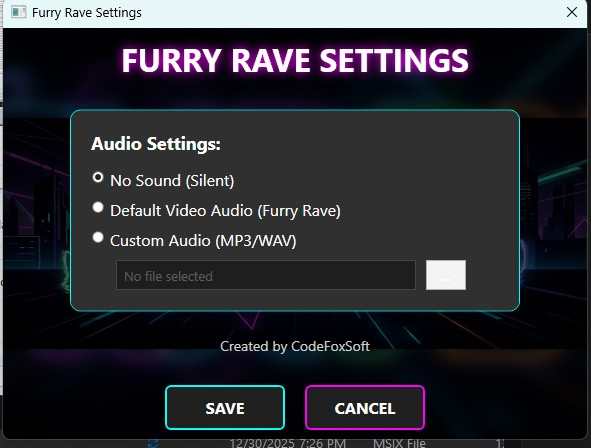
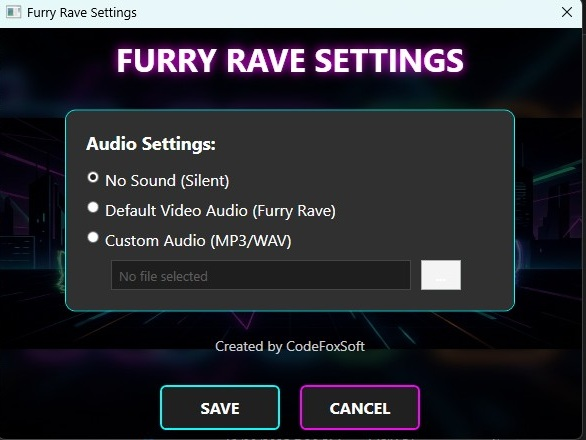
image sizes"

diff --git a/spacepongdownload.html b/spacepongdownload.html
@@ -264,7 +264,8 @@
             <div class="mt-12 text-left">
                 <h2 class="text-3xl font-bold text-white mb-6 text-center">Project Screenshots</h2>
                 <div class="grid grid-cols-1 md:grid-cols-2 gap-8">
-                    <img src="p164.png" alt="Screenshot 1 of Project Alpha" class="w-full h-auto rounded-lg shadow-lg">
+                    <img src="p164_fixed.png" alt="Screenshot 1 of Project Alpha"
+                        class="w-full h-auto rounded-lg shadow-lg">
                     <img src="pongplay.png" alt="Screenshot 2 of Project Alpha"
                         class="w-full h-auto rounded-lg shadow-lg">
 

diff --git a/furryravedownload.html b/furryravedownload.html
@@ -203,7 +203,7 @@
                 <div class="grid grid-cols-1 md:grid-cols-2 gap-8">
                     <img src="furryrave1.png" alt="Furry Rave Screensaver Preview 1"
                         class="w-full h-auto rounded-lg shadow-lg">
-                    <img src="furryrave2.jpg" alt="Furry Rave Screensaver Preview 2"
+                    <img src="furryrave2_fixed.png" alt="Furry Rave Screensaver Preview 2"
                         class="w-full h-auto rounded-lg shadow-lg">
                 </div>
             </div>

diff --git a/resize_pong_script.py b/resize_pong_script.py
@@ -1,0 +1,55 @@
+from PIL import Image
+
+def resize_images():
+    # Load images
+    img_target = Image.open("pongplay.png") # The larger one to match
+    img_to_fix = Image.open("p164.png")     # The smaller one to pad
+    
+    target_w, target_h = img_target.size
+    print(f"Target size (pongplay.png): {target_w}x{target_h}")
+    print(f"Original size (p164.png): {img_to_fix.size}")
+    
+    # Calculate scale to match height?
+    # img_target: 1080x585 (1.84)
+    # img_to_fix: 600x400 (1.5)
+    
+    # If we maximize height (585):
+    scale_h = target_h / img_to_fix.height
+    new_w_from_h = int(img_to_fix.width * scale_h)
+    
+    # If we maximize width (1080):
+    scale_w = target_w / img_to_fix.width
+    new_h_from_w = int(img_to_fix.height * scale_w)
+    
+    # Check which fits
+    if new_w_from_h <= target_w:
+        # Fits by height scaling
+        new_w = new_w_from_h
+        new_h = target_h
+    else:
+        # Must scale by width
+        new_w = target_w
+        new_h = new_h_from_w
+        
+    print(f"Resizing p164.png to {new_w}x{new_h}")
+    img_resized = img_to_fix.resize((new_w, new_h), Image.Resampling.LANCZOS)
+    
+    # Create background container
+    # Site bg color is #0c0d11 -> (12, 13, 17)
+    # Or just use black/transparent? User liked the previous result which used site bg.
+    bg_color = (12, 13, 17) 
+    
+    new_img = Image.new("RGB", (target_w, target_h), bg_color)
+    
+    # Paste centered
+    x_offset = (target_w - new_w) // 2
+    y_offset = (target_h - new_h) // 2
+    
+    new_img.paste(img_resized, (x_offset, y_offset))
+    
+    output_name = "p164_fixed.png"
+    new_img.save(output_name)
+    print(f"Saved {output_name} with size {new_img.size}")
+
+if __name__ == "__main__":
+    resize_images()

diff --git a/resize_script.py b/resize_script.py
@@ -1,0 +1,41 @@
+from PIL import Image
+
+def resize_images():
+    # Load images
+    img1 = Image.open("furryrave1.png")
+    img2 = Image.open("furryrave2.jpg")
+    
+    print(f"Original sizes: img1={img1.size}, img2={img2.size}")
+    
+    # Target dimensions from img1
+    target_w, target_h = img1.size
+    
+    # Calculate scale for img2 to match height of img1
+    # We want to match height first, then pad width?
+    # Or match which one?
+    # img1 is 1140x642 (1.77)
+    # img2 is 586x440 (1.33)
+    
+    # Scaling img2 to height 642
+    scale = target_h / img2.height
+    new_w = int(img2.width * scale)
+    new_h = target_h
+    
+    print(f"Resizing img2 to {new_w}x{new_h}")
+    img2_resized = img2.resize((new_w, new_h), Image.Resampling.LANCZOS)
+    
+    # Create background container
+    # Site bg color is #0c0d11 -> (12, 13, 17)
+    bg_color = (12, 13, 17)
+    new_img2 = Image.new("RGB", (target_w, target_h), bg_color)
+    
+    # Paste centered
+    x_offset = (target_w - new_w) // 2
+    new_img2.paste(img2_resized, (x_offset, 0))
+    
+    output_name = "furryrave2_fixed.png"
+    new_img2.save(output_name)
+    print(f"Saved {output_name} with size {new_img2.size}")
+
+if __name__ == "__main__":
+    resize_images()
